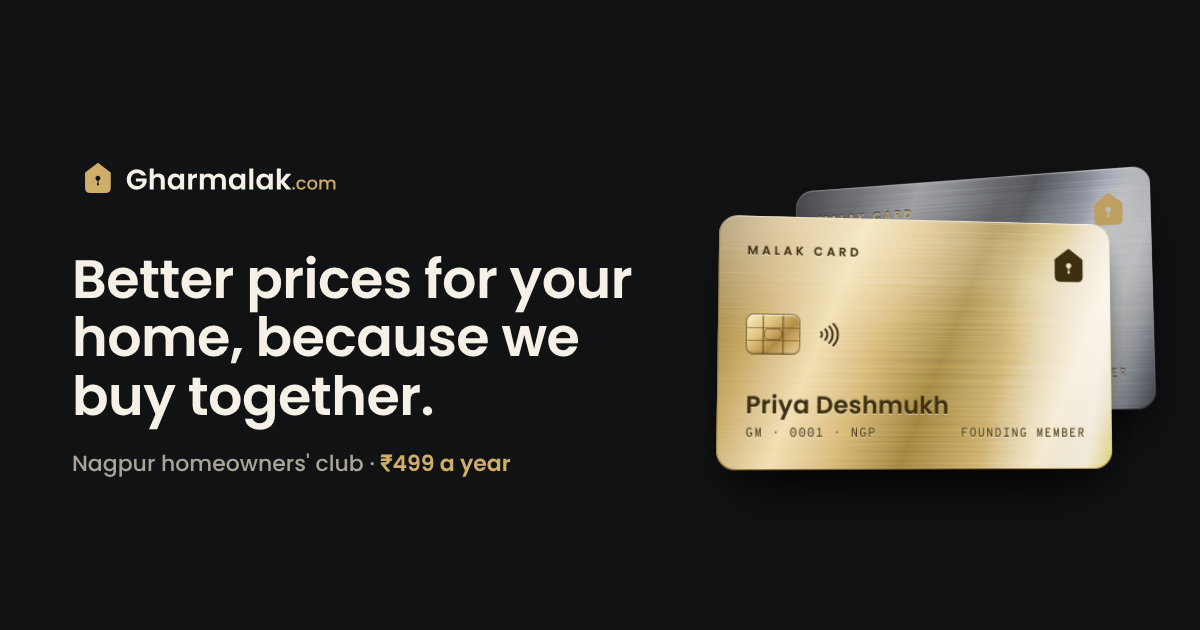
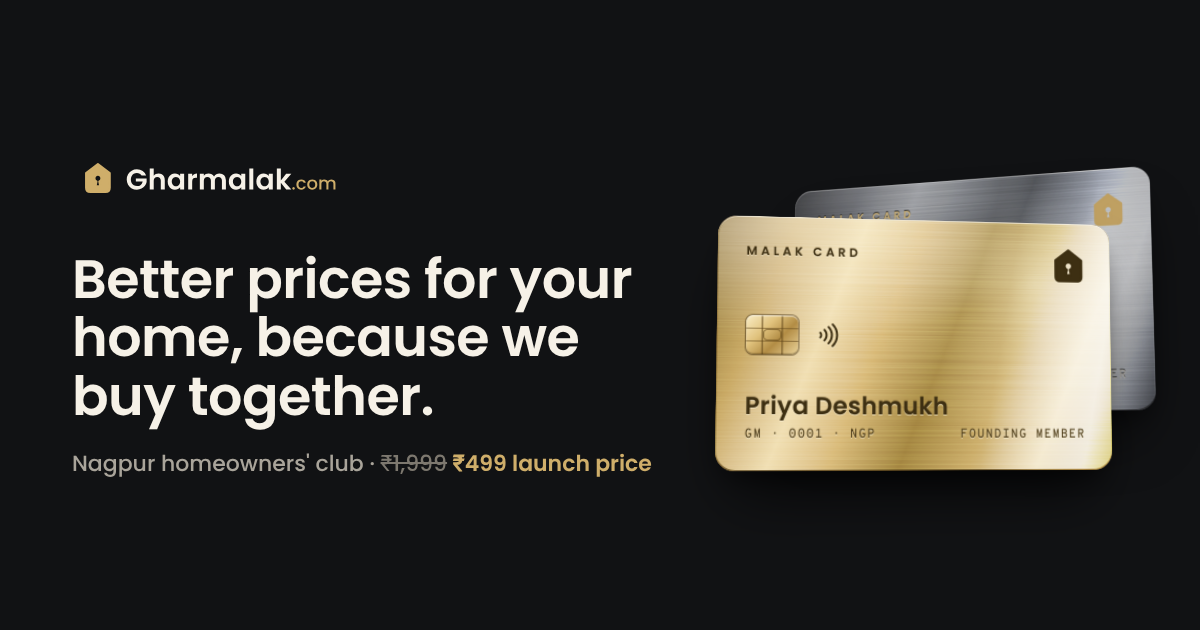
Launch pricing: ₹1,999 regular, ₹499 now, credit on first deal for first 1,000 Nagpur members
- Plan card shows struck ₹1,999, launch badge, savings line and seats-left meter
- Pay step repeats the price and the first-deal credit
- New FAQ on what happens to the ₹499; copy updated in English, Marathi and Hindi
- Green accent used for savings and verified ticks; share image and meta updated

Claude-Session: https://claude.ai/code/session_01E7dDhbuajY2enSgnMTVfp5

diff --git a/lib/i18n.ts b/lib/i18n.ts
@@ -16,7 +16,7 @@ const en = {
   hero_body: 'Gharmalak is a club of Nagpur homeowners. Every month we run one group deal. Ten local quotes set the price to beat, and verified vendors must beat it by 10% or the round is cancelled.',
   hero_cta: 'Reserve my founding seat',
   hero_wa: 'Ask on WhatsApp',
-  hero_note: '₹499 a year. Founding members get 2 years for the price of 1.',
+  hero_note: 'Launch price ₹499 a year (regular ₹1,999). The first 1,000 Nagpur members get it back on their first deal.',
   stat_members: 'homeowners joined',
   stat_optins: 'opted in to Round 1',
   stat_target: 'homes for a group price',
@@ -51,15 +51,22 @@ const en = {
   why4_b: 'Coming soon: a vault for your sale deed, tax receipts and warranties.',
   plan_title: 'Founding membership',
   plan_per: '/ year',
-  plan_t1: '2 years for the price of 1 (first 500 members)',
+  plan_t1: 'First 1,000 Nagpur members: your ₹499 comes off your first deal',
   plan_t2: 'Every monthly group deal, from solar to painting',
   plan_t3: 'The Malak Card and a founding member badge',
   plan_t4: 'Full refund within 30 days if you change your mind',
   faq_title: 'Questions',
+  plan_badge: 'Launch price',
+  plan_save: 'You save ₹1,500',
+  plan_note: 'Regular price ₹1,999 a year from January 2027.',
+  plan_seats: '{n} of 1,000 Nagpur seats left',
+  pay_credit: 'First 1,000 Nagpur members get this ₹499 back on their first deal.',
+  faq5_q: 'What happens to my ₹499?',
+  faq5_a: 'If you are one of the first 1,000 Nagpur members, we take ₹499 off the bill of the first deal you opt in to, so your first year costs you nothing. The ₹499 launch price ends in December; from January 2027 membership is ₹1,999 a year.',
   faq1_q: 'Do I have to buy anything?',
   faq1_a: 'No. Membership lets you see every round and opt in. You only pay a vendor when you choose a deal.',
   faq2_q: 'How does Gharmalak make money?',
-  faq2_a: 'From your ₹499 fee, and a 5 to 7% fee that the winning vendor pays us. You never pay us a commission.',
+  faq2_a: 'From the membership fee (₹499 at launch, ₹1,999 from January 2027), and a 5 to 7% fee that the winning vendor pays us. You never pay us a commission.',
   faq3_q: 'Which areas do you cover?',
   faq3_a: 'All of Nagpur city and nearby areas such as Hingna, Besa and Kamptee. Other Vidarbha cities come next.',
   faq4_q: 'What do you do with my data?',
@@ -69,7 +76,7 @@ const en = {
   // join
   join_over: 'Join Gharmalak',
   join_title: 'Reserve your founding seat',
-  join_body: 'Two minutes. Then pay ₹499 securely with UPI or card.',
+  join_body: 'Two minutes. Then pay the ₹499 launch price (regular ₹1,999) with UPI or card.',
   f_name: 'Your name',
   f_phone: 'WhatsApp number',
   f_phone_hint: 'We use it only for club messages, at most 4 a month.',
@@ -133,7 +140,7 @@ const mr: Dict = {
   hero_body: 'घरमालक हा नागपूरमधील घरमालकांचा क्लब आहे. दर महिन्याला एक ग्रुप डील. स्थानिक १० कोटेशनवरून ठरते “बीट करायची किंमत”, आणि पडताळलेल्या विक्रेत्यांनी ती किमान १०% ने कमी केली नाही तर राउंड रद्द होतो.',
   hero_cta: 'माझी संस्थापक जागा राखून ठेवा',
   hero_wa: 'WhatsApp वर विचारा',
-  hero_note: 'वर्षाला ₹499. संस्थापक सदस्यांना एका वर्षाच्या किमतीत २ वर्षे.',
+  hero_note: 'लाँच किंमत वर्षाला ₹499 (नियमित ₹1,999). नागपूरच्या पहिल्या 1,000 सदस्यांना ही रक्कम पहिल्या डीलवर परत मिळते.',
   stat_members: 'घरमालक सामील',
   stat_optins: 'राउंड १ साठी तयार',
   stat_target: 'घरे, ग्रुप किमतीसाठी',
@@ -168,15 +175,22 @@ const mr: Dict = {
   why4_b: 'लवकरच: खरेदीखत, कर पावत्या आणि वॉरंटीसाठी व्हॉल्ट.',
   plan_title: 'संस्थापक सदस्यत्व',
   plan_per: '/ वर्ष',
-  plan_t1: 'एका वर्षाच्या किमतीत २ वर्षे (पहिले ५०० सदस्य)',
+  plan_t1: 'नागपूरचे पहिले 1,000 सदस्य: तुमचे ₹499 पहिल्या डीलच्या बिलातून वजा',
   plan_t2: 'दर महिन्याची प्रत्येक ग्रुप डील, सोलरपासून रंगकामापर्यंत',
   plan_t3: 'मालक कार्ड आणि संस्थापक सदस्य बॅज',
   plan_t4: '३० दिवसांत मन बदलले तर पूर्ण परतावा',
   faq_title: 'प्रश्न',
+  plan_badge: 'लाँच किंमत',
+  plan_save: 'तुमची ₹1,500 ची बचत',
+  plan_note: 'जानेवारी 2027 पासून नियमित किंमत वर्षाला ₹1,999.',
+  plan_seats: 'नागपूरमधील 1,000 पैकी {n} जागा शिल्लक',
+  pay_credit: 'नागपूरच्या पहिल्या 1,000 सदस्यांना हे ₹499 पहिल्या डीलवर परत मिळतात.',
+  faq5_q: 'माझ्या ₹499 चे काय होते?',
+  faq5_a: 'तुम्ही नागपूरच्या पहिल्या 1,000 सदस्यांपैकी असाल, तर तुम्ही निवडलेल्या पहिल्या डीलच्या बिलातून आम्ही ₹499 वजा करतो, म्हणजे पहिले वर्ष तुम्हाला मोफत पडते. ₹499 ची लाँच किंमत डिसेंबरमध्ये संपते; जानेवारी 2027 पासून सदस्यत्व वर्षाला ₹1,999.',
   faq1_q: 'मला काही विकत घ्यावेच लागेल का?',
   faq1_a: 'नाही. सदस्यत्वामुळे तुम्हाला प्रत्येक राउंड दिसतो. डील निवडल्यावरच विक्रेत्याला पैसे देता.',
   faq2_q: 'घरमालक पैसे कसे कमावते?',
-  faq2_a: 'तुमच्या ₹499 फीमधून आणि जिंकणारा विक्रेता देतो त्या ५ ते ७% फीमधून. तुम्ही आम्हाला कमिशन देत नाही.',
+  faq2_a: 'सदस्यत्व फीमधून (लाँचला ₹499, जानेवारी 2027 पासून ₹1,999) आणि जिंकणारा विक्रेता देतो त्या ५ ते ७% फीमधून. तुम्ही आम्हाला कमिशन देत नाही.',
   faq3_q: 'कोणते भाग समाविष्ट आहेत?',
   faq3_a: 'संपूर्ण नागपूर शहर आणि हिंगणा, बेसा, कामठी सारखे जवळचे भाग. विदर्भातील इतर शहरे पुढे.',
   faq4_q: 'माझ्या माहितीचे काय होते?',
@@ -185,7 +199,7 @@ const mr: Dict = {
   privacy: 'गोपनीयता',
   join_over: 'घरमालकमध्ये सामील व्हा',
   join_title: 'तुमची संस्थापक जागा राखून ठेवा',
-  join_body: 'दोन मिनिटे. नंतर UPI किंवा कार्डने सुरक्षितपणे ₹499 भरा.',
+  join_body: 'दोन मिनिटे. नंतर UPI किंवा कार्डने ₹499 ची लाँच किंमत भरा (नियमित ₹1,999).',
   f_name: 'तुमचे नाव',
   f_phone: 'WhatsApp क्रमांक',
   f_phone_hint: 'फक्त क्लबच्या मेसेजसाठी, महिन्याला जास्तीत जास्त ४.',
@@ -245,7 +259,7 @@ const hi: Dict = {
   hero_body: 'घरमालक नागपुर के घरमालिकों का क्लब है। हर महीने एक ग्रुप डील। 10 स्थानीय कोटेशन से तय होता है “मात देने वाला दाम”, और सत्यापित विक्रेता उसे कम से कम 10% कम न करें तो राउंड रद्द।',
   hero_cta: 'मेरी संस्थापक सीट पक्की करें',
   hero_wa: 'WhatsApp पर पूछें',
-  hero_note: 'साल का ₹499। संस्थापक सदस्यों को एक साल की कीमत में 2 साल।',
+  hero_note: 'लॉन्च कीमत ₹499 सालाना (नियमित ₹1,999)। नागपुर के पहले 1,000 सदस्यों को यह रकम पहली डील पर वापस मिलती है।',
   stat_members: 'घरमालिक जुड़े',
   stat_optins: 'राउंड 1 के लिए तैयार',
   stat_target: 'घर, ग्रुप दाम के लिए',
@@ -280,15 +294,22 @@ const hi: Dict = {
   why4_b: 'जल्द ही: रजिस्ट्री, टैक्स रसीद और वारंटी के लिए वॉल्ट।',
   plan_title: 'संस्थापक सदस्यता',
   plan_per: '/ साल',
-  plan_t1: 'एक साल की कीमत में 2 साल (पहले 500 सदस्य)',
+  plan_t1: 'नागपुर के पहले 1,000 सदस्य: आपके ₹499 पहली डील के बिल से घटेंगे',
   plan_t2: 'हर महीने की ग्रुप डील, सोलर से पेंटिंग तक',
   plan_t3: 'मालक कार्ड और संस्थापक सदस्य बैज',
   plan_t4: '30 दिन में मन बदले तो पूरा पैसा वापस',
   faq_title: 'सवाल',
+  plan_badge: 'लॉन्च कीमत',
+  plan_save: 'आपकी ₹1,500 की बचत',
+  plan_note: 'जनवरी 2027 से नियमित कीमत ₹1,999 सालाना।',
+  plan_seats: 'नागपुर की 1,000 में से {n} सीटें बाकी',
+  pay_credit: 'नागपुर के पहले 1,000 सदस्यों को ये ₹499 पहली डील पर वापस मिलते हैं।',
+  faq5_q: 'मेरे ₹499 का क्या होता है?',
+  faq5_a: 'अगर आप नागपुर के पहले 1,000 सदस्यों में हैं, तो आपकी चुनी पहली डील के बिल से हम ₹499 घटा देते हैं, यानी पहला साल आपको मुफ्त पड़ता है। ₹499 की लॉन्च कीमत दिसंबर में खत्म होती है; जनवरी 2027 से सदस्यता ₹1,999 सालाना है।',
   faq1_q: 'क्या मुझे कुछ खरीदना ज़रूरी है?',
   faq1_a: 'नहीं। सदस्यता से आप हर राउंड देख सकते हैं। डील चुनने पर ही विक्रेता को भुगतान करते हैं।',
   faq2_q: 'घरमालक पैसे कैसे कमाता है?',
-  faq2_a: 'आपकी ₹499 फीस से, और जीतने वाला विक्रेता जो 5 से 7% फीस देता है उससे। आप हमें कोई कमीशन नहीं देते।',
+  faq2_a: 'सदस्यता फीस से (लॉन्च पर ₹499, जनवरी 2027 से ₹1,999), और जीतने वाला विक्रेता जो 5 से 7% फीस देता है उससे। आप हमें कोई कमीशन नहीं देते।',
   faq3_q: 'कौन से इलाके शामिल हैं?',
   faq3_a: 'पूरा नागपुर शहर और हिंगणा, बेसा, कामठी जैसे पास के इलाके। विदर्भ के बाकी शहर आगे।',
   faq4_q: 'मेरी जानकारी का क्या होता है?',
@@ -297,7 +318,7 @@ const hi: Dict = {
   privacy: 'गोपनीयता',
   join_over: 'घरमालक से जुड़ें',
   join_title: 'अपनी संस्थापक सीट पक्की करें',
-  join_body: 'दो मिनट। फिर UPI या कार्ड से सुरक्षित ₹499 भरें।',
+  join_body: 'दो मिनट। फिर UPI या कार्ड से ₹499 की लॉन्च कीमत भरें (नियमित ₹1,999)।',
   f_name: 'आपका नाम',
   f_phone: 'WhatsApp नंबर',
   f_phone_hint: 'सिर्फ क्लब मैसेज के लिए, महीने में ज़्यादा से ज़्यादा 4।',

diff --git a/components/HomePage.tsx b/components/HomePage.tsx
@@ -16,6 +16,9 @@ export function Home() {
   const stats = useStats();
   const optins = stats?.optins ?? 0;
   const pct = Math.min(100, Math.round((optins / currentRound.target) * 100));
+  const seatsTaken = Math.min(site.foundingSeats, stats?.members ?? 0);
+  const seatsPct = Math.round((seatsTaken / site.foundingSeats) * 100);
+  const seatsLabel = t.plan_seats.replace('{n}', (site.foundingSeats - seatsTaken).toLocaleString('en-IN'));
   const closes = new Date(currentRound.closes).toLocaleDateString('en-IN', { day: 'numeric', month: 'short' });
 
   return (
@@ -117,17 +120,23 @@ export function Home() {
         <section className="section" id="join">
           <div className="wrap plan-wrap">
             <div className="gm-plan">
-              <p className="overline">{t.plan_title}</p>
-              <div className="gm-plan-price"><span className="gm-amount amount">{inr(site.fee)}</span><span className="gm-plan-per">{t.plan_per}</span></div>
+              <div className="plan-head"><p className="overline">{t.plan_title}</p><span className="plan-badge">{t.plan_badge}</span></div>
+              <div className="gm-plan-price"><s className="plan-was">{inr(site.regularFee)}</s><span className="gm-amount amount">{inr(site.fee)}</span><span className="gm-plan-per">{t.plan_per}</span></div>
+              <p className="plan-save"><BadgeCheck size={18} /> {t.plan_save}</p>
               <ul className="gm-ticks">
                 {[t.plan_t1, t.plan_t2, t.plan_t3, t.plan_t4].map(x => <li key={x}><Check className="gm-icon" size={20} /> {x}</li>)}
               </ul>
+              <div className="meter">
+                <div className="gm-progress" role="progressbar" aria-valuenow={seatsTaken} aria-valuemin={0} aria-valuemax={site.foundingSeats} aria-label={seatsLabel}><span style={{ width: `${Math.max(seatsPct, 2)}%` }} /></div>
+                <div className="meter-row"><span>{seatsLabel}</span></div>
+              </div>
               <Link href="/join" className="gm-btn gm-btn-primary gm-btn-block">{t.hero_cta}</Link>
+              <p className="plan-note">{t.plan_note}</p>
             </div>
             <div>
               <h2 style={{ fontSize: 28, marginBottom: 16 }}>{t.faq_title}</h2>
               <div className="faq">
-                {[1, 2, 3, 4].map(n => (
+                {[5, 1, 2, 3, 4].map(n => (
                   <details key={n}>
                     <summary>{t[`faq${n}_q` as 'faq1_q']} <ChevronDown size={20} /></summary>
                     <p>{t[`faq${n}_a` as 'faq1_a']}</p>

diff --git a/app/globals.css b/app/globals.css
@@ -53,7 +53,7 @@ p { margin: 0; }
 .hero-ctas { display: flex; flex-wrap: wrap; gap: var(--space-3); margin-top: var(--space-8); }
 .hero-ctas .gm-btn { min-height: 52px; padding: 0 var(--space-6); font-size: 16px; }
 .hero-note { margin-top: var(--space-4); font-size: 15px; color: var(--ink-muted); display: flex; align-items: center; gap: 8px; }
-.hero-note svg { color: var(--brass); flex: none; }
+.hero-note svg { color: var(--accent); flex: none; }
 .card-stage { position: relative; display: grid; place-items: center; min-height: 340px; perspective: 1200px; }
 @media (min-width: 960px) { .card-stage { min-height: 400px; padding-bottom: 96px; } }
 .card-stage .mc-scene.front { position: relative; z-index: 1; }
@@ -106,7 +106,15 @@ p { margin: 0; }
 .plan-wrap { display: grid; gap: var(--space-8); align-items: start; }
 @media (min-width: 960px) { .plan-wrap { grid-template-columns: 1fr 1fr; } }
 .plan-wrap .gm-plan { width: 100%; max-width: 440px; padding: var(--space-8); box-shadow: var(--shadow-lg); }
-.plan-was { color: var(--ink-muted); text-decoration: line-through; font-family: var(--font-display); }
+.plan-was { color: var(--ink-muted); text-decoration: line-through; text-decoration-color: var(--danger); text-decoration-thickness: 2px; font-family: var(--font-display); font-weight: 500; font-size: 22px; }
+.plan-head { display: flex; justify-content: space-between; align-items: center; gap: var(--space-3); }
+.plan-badge { font-family: var(--font-display); font-size: 12px; font-weight: 600; letter-spacing: 0.04em; color: var(--on-brass); background: var(--brass); border-radius: 999px; padding: 3px 10px; white-space: nowrap; }
+.plan-save { display: flex; gap: 8px; align-items: center; color: var(--accent); font-family: var(--font-display); font-weight: 500; font-size: 15px; }
+.plan-save svg { flex: none; }
+.plan-note { color: var(--ink-muted); font-size: 14px; text-align: center; }
+.pay-price { display: flex; align-items: baseline; gap: var(--space-3); flex-wrap: wrap; }
+.pay-price .amount { font-size: 34px; line-height: 1.1; }
+.pay-price .plan-badge { align-self: center; }
 
 .faq { border-top: 1px solid var(--line); }
 .faq details { border-bottom: 1px solid var(--line); }

diff --git a/app/join/JoinFlow.tsx b/app/join/JoinFlow.tsx
@@ -1,10 +1,10 @@
 'use client';
 import { useEffect, useState } from 'react';
 import Link from 'next/link';
-import { AlertCircle, ArrowRight, ChevronDown, MessageCircle, ShieldCheck } from 'lucide-react';
+import { AlertCircle, ArrowRight, BadgeCheck, ChevronDown, MessageCircle, ShieldCheck } from 'lucide-react';
 import { useLang } from '@/components/LangProvider';
 import { MalakCard } from '@/components/MalakCard';
-import { areas, site, waLink } from '@/lib/config';
+import { areas, inr, site, waLink } from '@/lib/config';
 
 type Form = { name: string; phone: string; area: string; home: '' | 'house' | 'flat'; interests: string[]; consent: boolean };
 const INTERESTS = ['solar', 'painting', 'waterproofing', 'other'] as const;
@@ -128,6 +128,8 @@ export function JoinFlow() {
           <h1>{t.pay_title}</h1>
           <p className="flow-lead">{t.pay_body}</p>
           <div className="panel stack">
+            <div className="pay-price"><s className="plan-was">{inr(site.regularFee)}</s><span className="amount">{inr(site.fee)}</span><span className="plan-badge">{t.plan_badge}</span></div>
+            <p className="plan-save"><BadgeCheck size={18} /> {t.pay_credit}</p>
             <div className="notice"><span className="amount" style={{ color: 'var(--ink)' }}>+91 {f.phone.replace(/\D/g, '').slice(-10)}</span></div>
             {site.paymentLink ? (
               <a className="gm-btn gm-btn-primary gm-btn-block" style={{ minHeight: 52 }} href={site.paymentLink} target="_blank" rel="noopener" onClick={() => setTimeout(() => setStep(3), 800)}>{t.pay_cta}</a>

diff --git a/app/layout.tsx b/app/layout.tsx
@@ -6,7 +6,7 @@ import { site } from '@/lib/config';
 export const metadata: Metadata = {
   metadataBase: new URL(site.url),
   title: { default: 'Gharmalak · Homeowners’ club, Nagpur', template: '%s · Gharmalak' },
-  description: 'A club of Nagpur homeowners. One group deal a month, a price set by 10 local quotes, and verified vendors who must beat it by 10%. ₹499 a year.',
+  description: 'A club of Nagpur homeowners. One group deal a month, a price set by 10 local quotes, and verified vendors who must beat it by 10%. Launch price ₹499 a year (regular ₹1,999).',
   openGraph: { type: 'website', siteName: 'Gharmalak', locale: 'en_IN', images: ['/og.png'] },
   robots: { index: true, follow: true },
 };

diff --git a/lib/config.ts b/lib/config.ts
@@ -2,8 +2,9 @@ export const site = {
   url: process.env.NEXT_PUBLIC_SITE_URL || 'https://gharmalak.in',
   whatsapp: (process.env.NEXT_PUBLIC_WHATSAPP_NUMBER || '').replace(/\D/g, ''),
   paymentLink: process.env.NEXT_PUBLIC_RAZORPAY_PAYMENT_LINK || '',
-  fee: 499,
-  foundingSeats: 500,
+  fee: 499, // launch price until 31 Dec 2026
+  regularFee: 1999, // from 1 Jan 2027
+  foundingSeats: 1000, // first Nagpur members whose fee comes off their first deal
 };
 
 export type Round = {
